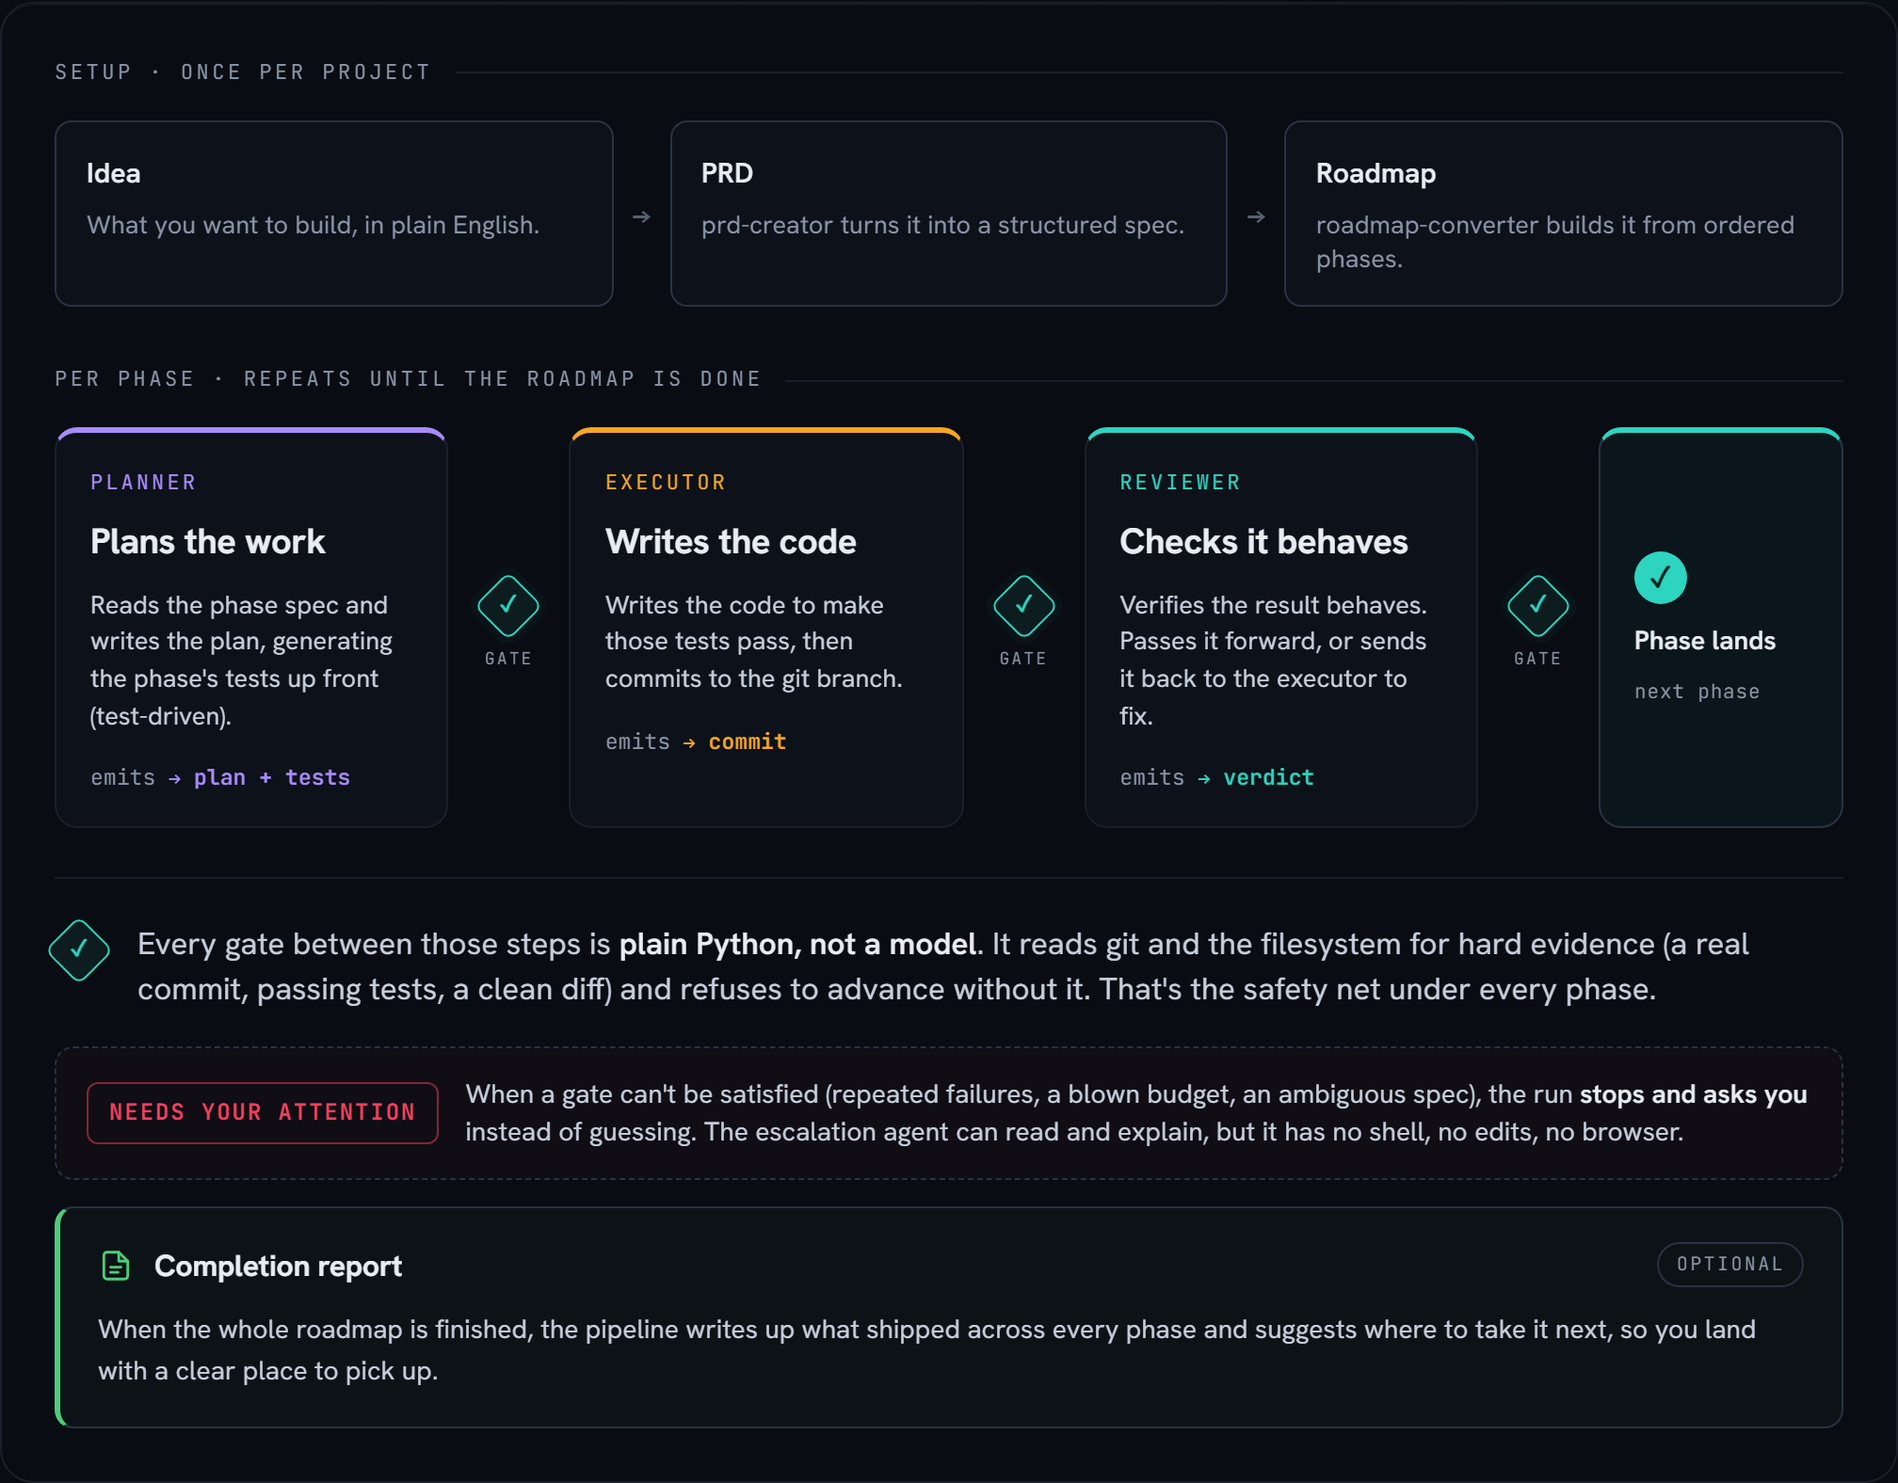
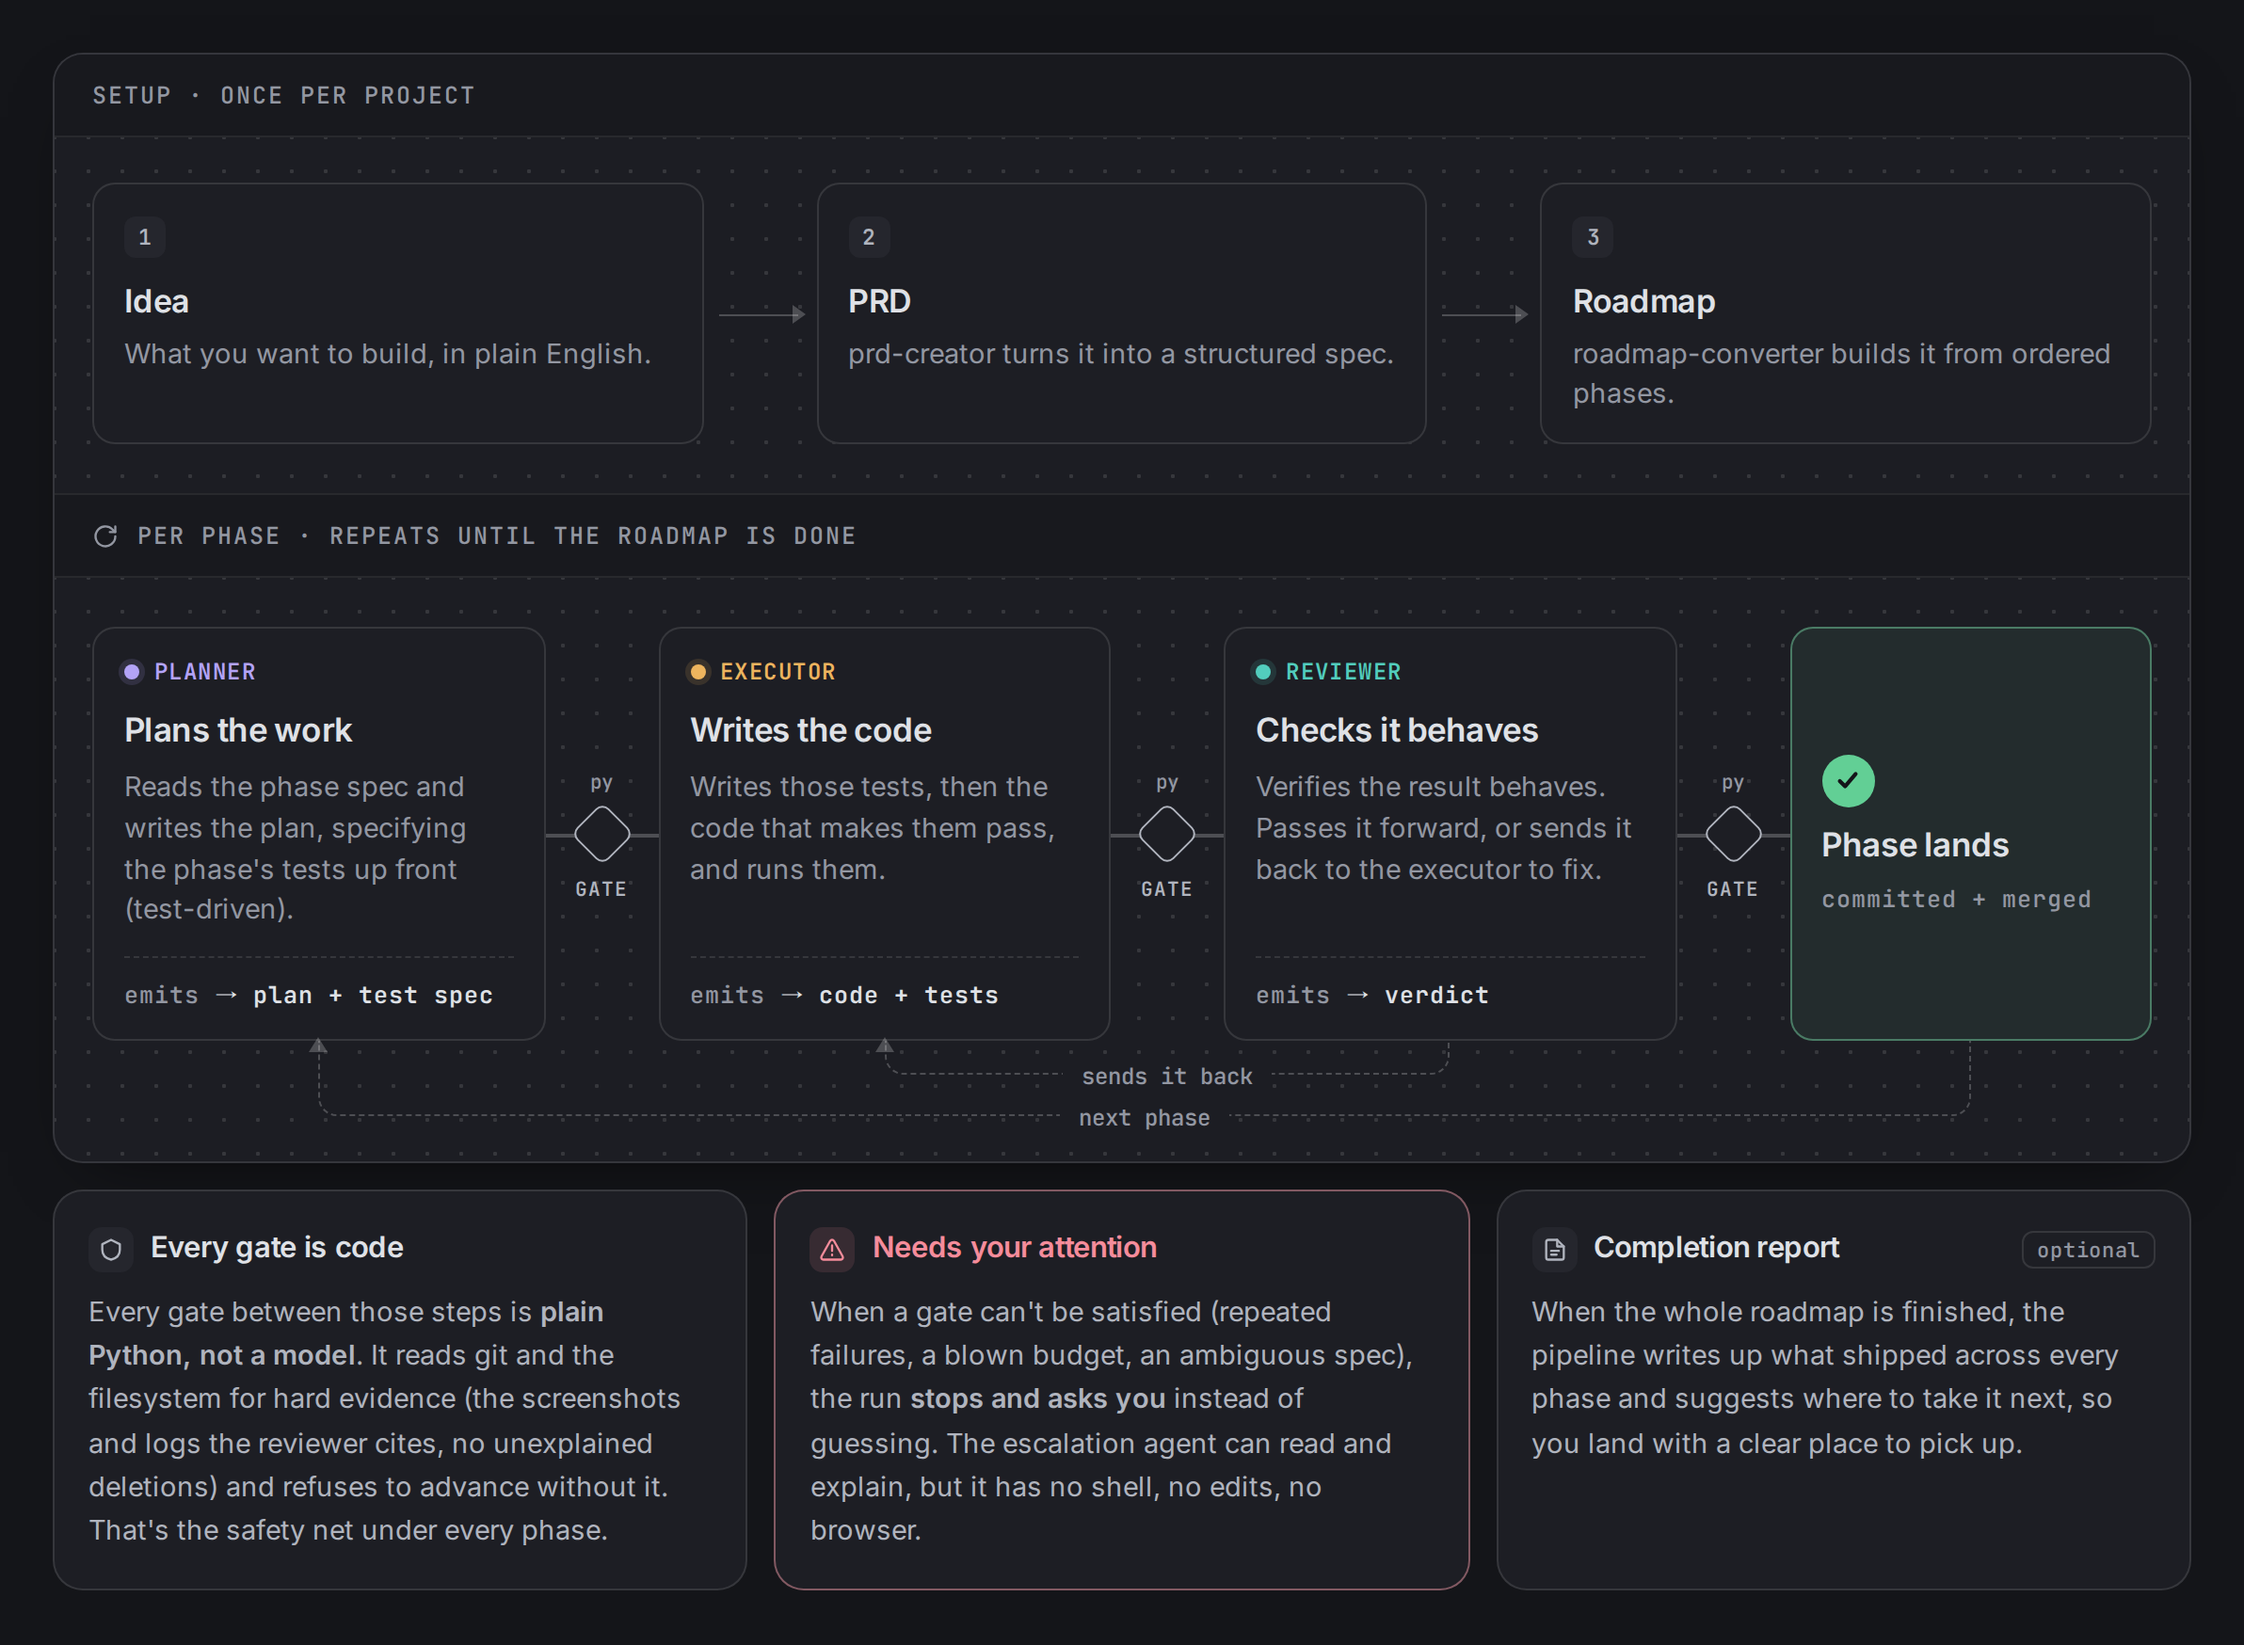
docs: show a run as the site's card diagram, with its commit claim fixed
The README's How it works section now uses the card layout from
lullabeast.ai: the setup steps, the per-phase planner, executor and
reviewer loop with a gate after each, and the three notes. It is
rendered from the site's own markup and CSS, and the agent bullets
under it go.

Three lines of the site's copy didn't match the code; the README image
fixes them:
- The executor doesn't commit. Its AGENTS.md forbids git writes, and
  the orchestrator commits and merges a phase when the reviewer passes
  it. The executor card now says it writes the tests and the code and
  runs them (emits code + tests), and "Phase lands" says committed +
  merged.
- The planner doesn't write tests. It specifies them (emits plan + test
  spec), and the executor writes them.
- The gates don't look for "a real commit", and "passing tests" is the
  executor's own report, which a gate reads but doesn't re-run. The
  hard evidence the card now names is what a gate does require: the
  screenshots and logs the reviewer cites, and a diff with no
  unexplained deletions.

diff --git a/README.md b/README.md
@@ -43,19 +43,10 @@ Open-weight models like Qwen, DeepSeek, Kimi, MiniMax, and GLM now write real so
 ## How it works
 
 <p align="center">
-  <img src="docs/assets/diagrams/workflow.png" alt="How a run works. Setup, once per project: Idea, PRD (prd-creator), Roadmap (roadmap-converter). Per phase, until the roadmap is done: Planner plans the work and its tests up front, Executor writes the code, Reviewer checks it behaves, with a plain-Python gate after each, then the phase lands. If a gate can't be satisfied, the run stops and asks you. An optional completion report closes the roadmap." width="1008">
+  <img src="docs/assets/diagrams/workflow.png" alt="How a run works. Setup, once per project: the idea, in plain English; a PRD, which prd-creator turns it into; a roadmap of ordered phases, which roadmap-converter builds. Per phase, until the roadmap is done: the planner writes the plan and specifies the phase's tests up front; the executor writes those tests, then the code that makes them pass, and runs them; the reviewer checks the result behaves and passes it forward or sends it back to the executor. A plain-Python gate checks the evidence after each step, and a phase the reviewer passes is committed and merged. When a gate can't be satisfied, the run stops and asks you. An optional completion report closes the roadmap." width="1008">
 </p>
 
-Queue several projects and Lullabeast works them in order, honoring dependencies between them.
-
-**The agents.** Four pipeline agents and two ideation agents, run by a single orchestrator state machine that owns the git operations and recovery logic:
-
-- **Planner:** turns the current roadmap phase into a concrete implementation plan.
-- **Executor:** writes the code and tests, then commits to a phase branch.
-- **Reviewer:** verifies the result actually behaves as intended, including screenshot-based visual review for UI phases.
-- **Gate scripts:** deterministic, LLM-free Python checkers between every handoff: file manifest, git diff, test results, behavioral evidence, unaccounted deletions. The gates are the pipeline's source of truth; no agent advances on its own say-so.
-- **Escalation:** invoked only when gates and retries are exhausted; notifies you and pauses.
-- **prd-creator / roadmap-converter:** drive the idea, PRD, roadmap front end.
+One orchestrator runs this loop and owns git: it commits and merges each phase the reviewer passes. Queue several projects and Lullabeast works them in order, honoring dependencies between them.
 
 ---
 
